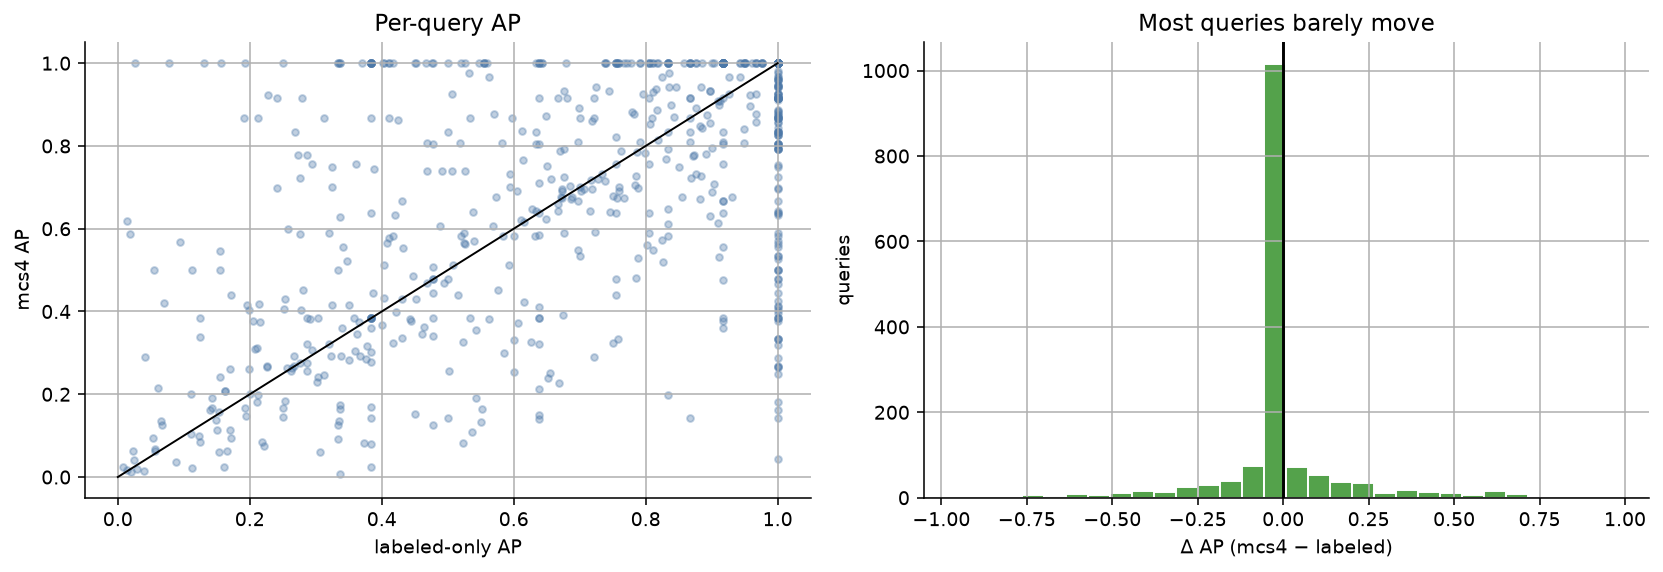
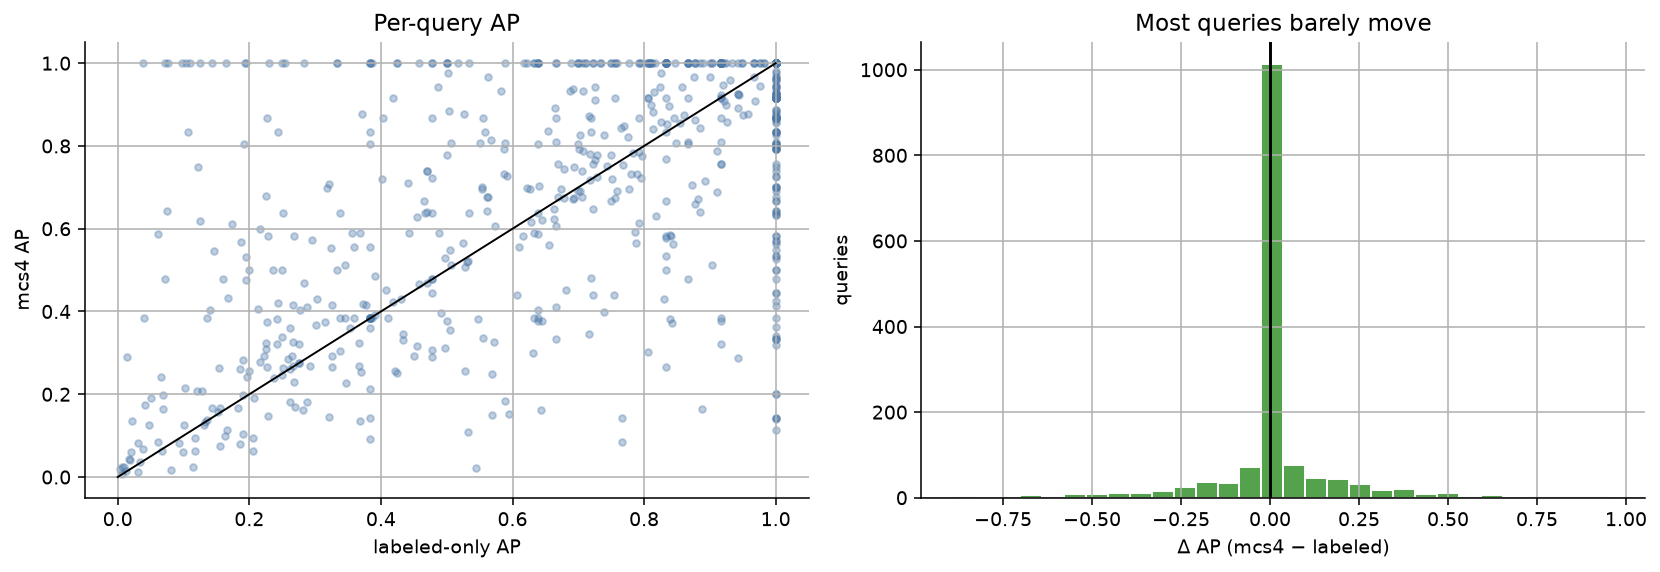
Serve CatBoost refusal in Docker and restore the K=2 vs mcs4 OOF table.
The contest image now uses eva02_model (P ≥ 0.5473); cosine 0.7528 stays a preset, and the HDBSCAN compare is again the pair that was actually trained.

diff --git a/tests/test_infra_complete.py b/tests/test_infra_complete.py
@@ -33,13 +33,13 @@ def test_docker_offline_image_pins_and_bakes_weights():
     assert "scripts/verify_weights.py --root /app/weights/finetuned" in dockerfile
     assert "checkpoint=/app/weights/finetuned/eva02.pt" in dockerfile
     assert "eval.top_k=10" in dockerfile
-    assert "refusal=eva02_threshold" in dockerfile
+    assert "refusal=eva02_model" in dockerfile
     assert "consul-tech" not in dockerfile
     assert "network_mode: none" in compose
     assert "gpus: all" in compose
     assert "./weights:/app/weights" not in compose
     assert "CHECKPOINT:-/app/weights/finetuned/eva02.pt" in compose
-    assert "refusal=eva02_threshold" in compose
+    assert "refusal=eva02_model" in compose
     assert "!weights/finetuned/" in dockerignore
     assert "extra_data" in dockerignore
     assert "filter=lfs" in gitattributes

diff --git a/README.md b/README.md
@@ -23,7 +23,7 @@ to the dataset and label mapping that produced them.
 - Iterative test pseudo-labeling: embed query+gallery, HDBSCAN identities, fine-tune on labeled train plus clusters.
 - Reproducible GroupKFold splits with no vehicle identity overlap between train and validation.
 - CPU/offline test suite with 100% line coverage for first-party Python code.
-- Contest serving file is a compact EMA `.pt` exported from a Lightning checkpoint.
+- Contest serving files are the EMA `.pt` and the CatBoost `.cbm` used for open-set refusal.
 - Serving inference uses fused SDPA, `torch.compile`, and the same DataLoader decode path as Docker. Isolated H200 `extract()` latency is 15.5 ms; DataLoader throughput peaks at 722 FPS.
 
 ## Requirements
@@ -346,44 +346,45 @@ random vehicle. Full case study: `notebooks/eva02/oof_analysis.ipynb`.*
 ### Labeled-only vs HDBSCAN mcs4 (experiment, not serving)
 
 HDBSCAN on the public test set was tried as extra train identities. It is **not** in the submitted
-recipe (`weights/finetuned/eva02.pt` stays labeled-only K=4). The two identity-disjoint OOF
-runs share query/gallery rows and fold assignment; only the embedding changes.
-`notebooks/eva02/oof_compare.ipynb` compares per-query ranking, neighbor lists, and the 256-D spaces.
+recipe (`weights/finetuned/eva02.pt` stays labeled-only K=4). The table is the pair that was
+trained: labeled-only K=2 `runs/cv/eva02_trial23` against mcs4 on that same recipe. mcs4 was not
+repeated on K=4. The two identity-disjoint OOF runs share query/gallery rows and fold assignment;
+only the embedding changes. `notebooks/eva02/oof_compare.ipynb` compares per-query ranking,
+neighbor lists, and the 256-D spaces.
 
-| | labeled-only `eva02_k4` | + HDBSCAN mcs4 (K=2 recipe) |
+| | labeled-only `eva02_trial23` | + HDBSCAN mcs4 |
 | --- | ---: | ---: |
-| mAP | 0.855 | 0.857 |
-| mAP@10 | 0.844 | 0.846 |
-| Rank-1 | 0.849 | 0.853 |
-| mean first-positive rank | 2.22 | 2.16 |
-| Rank-1 rescue / break | — | 81 / 74 |
+| mAP | 0.847 | 0.857 |
+| mAP@10 | 0.834 | 0.846 |
+| Rank-1 | 0.842 | 0.853 |
+| mean first-positive rank | 2.70 | 2.16 |
+| Rank-1 rescue / break | — | 83 / 66 |
 | same Rank-1 image | — | 54% |
 | top-5 / top-10 overlap | — | 0.74 / 0.67 |
-| fold-0 intra-id cosine | 0.85 | 0.82 |
-| fold-0 cross-camera positive | 0.79 | 0.76 |
-| same-image cosine (raw → Procrustes) | — | 0.60 → 0.84 |
-| linear CKA | — | 0.77 |
+| fold-0 intra-id cosine | 0.76 | 0.82 |
+| fold-0 cross-camera positive | 0.68 | 0.76 |
+| same-image cosine (raw → Procrustes) | — | ≈0 → 0.83 |
+| linear CKA | — | 0.76 |
 
-mcs4 was trained on the previous K=2 recipe. Against K=4 the OOF gap shrinks to +0.002 mAP: 295
-queries gain AP, 308 lose, 938 stay put. Neighbor lists still move — 54% keep the same Rank-1
-image. The spaces are closer than the old K=2 comparison (raw same-image cosine 0.60, Procrustes
-0.84, CKA 0.77). K=4 positives are tighter than mcs4; sampled negatives stay near 0. Serving does
-not use the pseudo run.
+mcs4 is a net gain, not a uniform lift: 336 queries gain AP, 278 lose, 927 stay put. Neighbor lists
+move more than the metric — only 54% keep the same Rank-1 image. The two bases are rotated (raw
+same-image cosine ≈ 0) but agree after an orthogonal Procrustes map. Same-identity views get
+tighter; sampled negatives stay near 0.
 
 ![Per-query AP labeled-only vs mcs4](notebooks/eva02/readme_figs/compare_ap.jpg)
 
-*Each point is one of 1541 orig-identity OOF queries. The spike at ΔAP = 0 is 938 unchanged
+*Each point is one of 1541 orig-identity OOF queries. The spike at ΔAP = 0 is 927 unchanged
 queries. Off-diagonal tails are Rank-1 rescues and breaks.*
 
 ![Fold-0 neighbor crops: labeled-only vs mcs4](notebooks/eva02/readme_figs/compare_neighbors.jpg)
 
-*Rows 1–2: mcs4 rescues (id 1067, 1190) where labeled-only Rank-1 was a lookalike. Rows 3–4: breaks
-(id 782, 23) where labeled-only was already correct. Green is the true identity; red is not.*
+*Rows 1–2: mcs4 rescues (id 485, 590) where labeled-only Rank-1 was a lookalike. Rows 3–4: breaks
+(id 1321, 513) where labeled-only was already correct. Green is the true identity; red is not.*
 
 ![Embedding alignment and pair cosines](notebooks/eva02/readme_figs/compare_embed.jpg)
 
 *Left: cosine of the two models on the same OOF image, raw vs after Procrustes. Right: fold-0
-query–gallery cosines. K=4 positives sit higher than mcs4; negatives stay near zero.*
+query–gallery cosines. Positives shift up; negatives stay near zero.*
 
 ### Full retrain
 
@@ -473,11 +474,11 @@ PYTHONUNBUFFERED=1 scripts/pseudo_label.sh cuda:2
 
 Writes `runs/pseudo/iter001/` (`embeddings.npy`, `clusters.csv` including `-1`, merged `train.csv`, `summary.json`). Defaults: `weights/finetuned/eva02.pt`, `min_cluster_size=4`, `min_samples=4`, `allow_single_cluster=false`. `allow_single_cluster=true` can collapse the test set into one identity. Reuse embeddings with `--embeddings runs/pseudo/iter001/embeddings.npy`. Next round: `ITER=2 OUTPUT=runs/pseudo/iter002_mcs4 CHECKPOINT=weights/finetuned/eva02.pt`. `summary.json` records the clustering checkpoint and `next_train` Hydra data overrides (`train_csv`, `folds_file`, `val_source_csv`). It does **not** set `init_checkpoint`: that clustering `.pt` already saw original identities (a serving full-retrain, or even one fold, has seen IDs that later folds hold out). Identity-disjoint CV must init from the Hub snapshot, not from `summary.json` `checkpoint`.
 
-Measured HDBSCAN mcs=4 rounds (embed with the then-current serving `.pt`, merge onto original `data/train.csv`):
+Measured HDBSCAN mcs=4 rounds on the K=2 trial23 recipe (embed with that serving `.pt`, merge onto original `data/train.csv`). The labeled-only row is that same K=2 OOF, not the later K=4 serving run:
 
 | | clusters | labeled test | noise | merged train | orig-ID OOF mAP / mAP@10 / Rank-1 |
 | --- | ---: | ---: | ---: | --- | ---: |
-| labeled-only `eva02_k4` | — | — | — | 9556 / 1541 IDs | **0.855 / 0.844 / 0.849** |
+| labeled-only `eva02_trial23` | — | — | — | 9556 / 1541 IDs | **0.847 / 0.834 / 0.842** |
 | iter1 `runs/pseudo/iter001_mcs4` | 234 | 1626 | 13% (234) | 11182 / 1775 IDs | 0.857 / 0.846 / 0.853 |
 | iter2 `runs/pseudo/iter002_mcs4` | 239 | 1738 | 6.6% (122) | 11294 / 1780 IDs | 0.856 / 0.845 / 0.850 |
 
@@ -485,7 +486,7 @@ Iter2 tightened the clusters (noise 13% → 6.6%) but did not beat iter1 OOF (mA
 Neither round is used at serve. Neighbor/embedding compare vs labeled-only:
 `notebooks/eva02/oof_compare.ipynb`.
 
-5-fold CV on orig identities, every test pseudo-label in train, GPUs 3–7. Init from the LLM2CLIP snapshot, not from a serving full-retrain `.pt`:
+5-fold CV on orig identities, every test pseudo-label in train, GPUs 3–7. The finished folds used PK K=2, so the command pins `data.sampler.instances=2` (`current_best_tuned` is now K=4). Init from the LLM2CLIP snapshot, not from a serving full-retrain `.pt`:
 
 ```bash
 PYTHONUNBUFFERED=1 \
@@ -493,6 +494,7 @@ EXPERIMENT=current_best_tuned \
 RUN_ROOT=runs/cv/pseudo_iter001_mcs4 \
 MODEL_CHECKPOINT=weights/llm2clip/LLM2CLIP-EVA02-L-14-336.pt \
 scripts/train_folds.sh 3,4,5,6,7 \
+  data.sampler.instances=2 \
   data.train_csv=runs/pseudo/iter001_mcs4/train.csv \
   data.folds_file=runs/pseudo/iter001_mcs4/folds.csv \
   data.val_source_csv=data/train.csv
@@ -612,20 +614,22 @@ average before L2. Scale/rotation/flip TTA still runs inside each crop via `embe
 
 Open-set refusal is applied only to contest `candidates.csv`. Serving heads and frozen thresholds
 live in `configs/refusal/`. Default local `refusal=none` writes every query. The contest Docker
-image defaults to `refusal=eva02_threshold` (max query–gallery cosine ≥ 0.7528). EVA02 serving
+image defaults to `refusal=eva02_model` (CatBoost `P(match exists)` ≥ 0.5473). The image installs
+CatBoost and copies `weights/finetuned/eva02_catboost.cbm`. EVA02 serving
 presets drop refused queries: **no rows**
 for that `query_id` (not an empty `gallery_id`, not a sentinel). `submission.csv` is ranking-only:
 exactly `eval.top_k` (10) gallery IDs for **every** query, including open-set and refused ones, with
 no score column and no skipped `query_id`.
 
 ```bash
-.venv/bin/python eval.py checkpoint=weights/finetuned/eva02.pt eval.split=test refusal=eva02_threshold
 .venv/bin/python eval.py checkpoint=weights/finetuned/eva02.pt eval.split=test refusal=eva02_model
+.venv/bin/python eval.py checkpoint=weights/finetuned/eva02.pt eval.split=test refusal=eva02_threshold
 .venv/bin/python eval.py checkpoint=weights/finetuned/eva02.pt eval.split=test refusal=eva02_ensemble
 ```
 
-`eva02_model` and `eva02_ensemble` need a `.cbm` at `refusal.model_path` (default
-`weights/finetuned/eva02_catboost.cbm`). They are optional overrides; Docker does not load CatBoost.
+`eva02_model` is the submit head. `eva02_threshold` is the cosine preset (max cosine ≥ 0.7528).
+`eva02_ensemble` accepts only when both heads agree. Model presets read `refusal.model_path`
+(default `weights/finetuned/eva02_catboost.cbm`).
 Export the head from EVA02 OOF embeddings with `scripts/export_refusal.py`. Thresholds in the YAMLs
 are frozen nested 5-fold inner-CV maxima of `0.7 × F1 + 0.3 × TNR` on 20% identity-hold-out eval
 packs, not retuned on the test set. TabM remains a `refusal/` calibration head and is not a submit
@@ -1029,21 +1033,21 @@ decisions; 310 open / 1231 closed queries):
 
 | Head | contest | F1 | TNR | PR-AUC |
 | --- | ---: | ---: | ---: | ---: |
-| Cosine (Docker) | 0.801 | 0.836 | 0.719 | 0.956 |
-| CatBoost | 0.814 | 0.829 | 0.781 | 0.965 |
+| Cosine | 0.801 | 0.836 | 0.719 | 0.956 |
+| CatBoost (Docker) | 0.814 | 0.829 | 0.781 | 0.965 |
 | cosine AND CatBoost | 0.811 | 0.821 | 0.787 | 0.964 |
 
-CatBoost wins this OOF. Identity-bootstrap 95% CIs: cosine contest **0.801 [0.779, 0.822]**,
+CatBoost wins this OOF and is the contest accept rule (`refusal=eva02_model`, P ≥ 0.5473).
+Identity-bootstrap 95% CIs: cosine contest **0.801 [0.779, 0.822]**,
 CatBoost **0.814 [0.793, 0.834]**, AND **0.811 [0.790, 0.831]**. The paired cosine−CatBoost delta is
-**−0.013 [−0.026, −0.001] and excludes 0**. Docker serving stays `eva02_threshold` (max cosine ≥
-0.7528) because the contest image does not load CatBoost. `eva02_model` and `eva02_ensemble` are
-optional local presets. Rank-average / TabM remain OOF calibration only.
+**−0.013 [−0.026, −0.001] and excludes 0**. `eva02_threshold` remains the cosine preset (max cosine ≥
+0.7528). `eva02_ensemble` is optional. Rank-average / TabM remain OOF calibration only.
 
 Eight fixed 20% identity-hold-out seeds `{0..7}` on every fold: re-fit cosine cuts average 0.759
-(std 0.033). The frozen serving cut 0.7528 scores contest 0.814 mean (std 0.022). After holding out
+(std 0.033). The frozen cosine cut 0.7528 scores contest 0.814 mean (std 0.022). After holding out
 open identities, subsample the remaining gallery to 750 (test size, keep at least one positive):
 frozen-cut contest 0.808 vs 0.801 on the full val gallery. Lookalike queries are the weak slice
-(contest 0.784, TNR 0.684 at the serving cut). Nested inner-CV does not undo HPO leakage on the
+(contest 0.784, TNR 0.684 at the cosine cut). Nested inner-CV does not undo HPO leakage on the
 embeddings. OOF F1/TNR calibrate the rule on fold extractors; transferring that threshold onto the
 full-retrain serving checkpoint is a practical choice, not a measurement of that checkpoint on new
 identities.
@@ -1055,20 +1059,20 @@ cosine. Notebook: `notebooks/eva02/refusal_analysis.ipynb`.*
 
 ![Open-set hold-out seeds](notebooks/eva02/readme_figs/refusal_holdout_seeds.jpg)
 
-*Left: re-fit cosine threshold on eight fixed hold-out seeds. Dashed line is the serving cut
-0.7528. Right: contest score of that frozen cut. Notebook:
+*Left: re-fit cosine threshold on eight fixed hold-out seeds. Dashed line is the cosine cut
+0.7528. Right: contest score of that frozen cosine cut. Notebook:
 `notebooks/eva02/refusal_analysis.ipynb`.*
 
 ![Refusal difficulty slices](notebooks/eva02/readme_figs/refusal_slices.jpg)
 
-*Frozen serving cosine cut on nested eval packs. Lookalikes (impostor cosine ≥ 0.55) lose TNR.
+*Frozen cosine cut on nested eval packs. Lookalikes (impostor cosine ≥ 0.55) lose TNR.
 Notebook: `notebooks/eva02/refusal_analysis.ipynb`.*
 
 ![Outer-OOF refusal head comparison](notebooks/eva02/readme_figs/refusal_bars.jpg)
 
 *Nested 5-fold inner CV on labeled-only K=4 OOF, 20% identity-hold-out eval packs. Contest
-score is `0.7 × F1 + 0.3 × TNR`. “Always accept” has no TNR. Docker serving is cosine 0.7528.
-CatBoost 0.5473 is the higher OOF head and stays optional. The AND row is not the Docker rule.*
+score is `0.7 × F1 + 0.3 × TNR`. “Always accept” has no TNR. Docker serving is CatBoost 0.5473.
+Cosine 0.7528 stays the other preset. The AND row is not the Docker rule.*
 
 ![Outer-OOF precision-recall for match vs no-match](notebooks/eva02/readme_figs/refusal_pr.jpg)
 
@@ -1081,27 +1085,28 @@ AdaSP with `K=4` has six positive pairs per identity and about 60 in-batch negat
 *relative* gap, not an absolute cosine. On the 20% identity-hold-out OOF packs that gap is large:
 median true-match max cosine 0.865 vs median open max 0.650 (mean gap 0.180 ≈ 6.9`τ`). Gallery
 max-impostor is an extreme value over ~870 crops, so it cannot be equated to the in-batch hard
-negative. The contest operating point sits near the midpoint of those two max-cosine distributions
+negative. The cosine operating point sits near the midpoint of those two max-cosine distributions
 (median midpoint 0.761, mean midpoint 0.758, nested cut 0.753). ArcFace’s class-center margin
 `cos(θ+m)` is a classification logit, not a pairwise retrieval threshold: mean cross-camera intra
 cosine is 0.796 (`√E[intra] ≈ 0.89`), which is above the cut. The cut is not `m` rewritten as a cosine.
 
 ![Max cosine for closed vs open queries](notebooks/eva02/readme_figs/refusal_cosine_geometry.jpg)
 
-*20% identity-hold-out OOF. True-match max-cosine median 0.865, open 0.650; serving cut 0.753 is
+*20% identity-hold-out OOF. True-match max-cosine median 0.865, open 0.650; cosine cut 0.753 is
 near the midpoint. Notebook: `notebooks/eva02/refusal_analysis.ipynb`.*
 
 `refusal/` implements three accept/refuse heads on top of frozen retrieval embeddings, plus
 ensembles of those heads. None of them uses `camera_id` or `vehicle_id` as a feature; those labels
 exist only while building the training pairs.
 
-1. **Cosine threshold (serving).** Score is the maximum query-gallery cosine. The operating point
-   maximizes `0.7 × F1 + 0.3 × TNR` on inner-CV eval packs, never on the reported fold. Docker uses
-   this head.
-2. **CatBoost.** A binary classifier on the retrieved set. Training examples are balanced 50/50 by
+1. **Cosine threshold.** Score is the maximum query-gallery cosine. The operating point
+   maximizes `0.7 × F1 + 0.3 × TNR` on inner-CV eval packs, never on the reported fold. This is
+   `eva02_threshold`, not the Docker head.
+2. **CatBoost (serving).** A binary classifier on the retrieved set. Training examples are balanced 50/50 by
    scoring the same query against the full gallery (`y=1`) and against the gallery with that
    identity removed (`y=0`). The contest operating point is **not** chosen on those pairs: it is
-   frozen on 20% identity-hold-out eval packs (`open_set_pack`). Features are similarity statistics,
+   frozen on 20% identity-hold-out eval packs (`open_set_pack`). Docker uses this head
+   (`eva02_model`, P ≥ 0.5473). Features are similarity statistics,
    pairwise/graph descriptors of the top-k neighbors, and the concatenated query and top-1 gallery
    embeddings.
 3. **TabM.** A parameter-efficient MLP ensemble after Gorishniy et al., ICLR 2025: shared linear
@@ -1113,7 +1118,7 @@ exist only while building the training pairs.
 
 `eval.py` selects a frozen submit head with `refusal=` (`none`, `eva02_threshold`, `eva02_model`,
 `eva02_ensemble`). Serving thresholds and the CatBoost path live in `configs/refusal/`. Default
-local `none` writes every query; the Docker image uses `eva02_threshold`. The mask is applied to
+local `none` writes every query; the Docker image uses `eva02_model`. The mask is applied to
 `candidates.csv` only. Each head scores one query against the gallery; serving does not
 rank-average across the test query batch.
 
@@ -1182,9 +1187,9 @@ weights/finetuned/
 └── eva02_catboost.cbm
 ```
 
-`eva02.pt` is the eval/Docker checkpoint. `eva02_catboost.cbm` is only required for
-`refusal=eva02_model` and `refusal=eva02_ensemble`. Nested inner-CV accept
-thresholds (`0.7528` cosine, `0.5473` CatBoost) live in `configs/refusal/`; Docker uses the cosine
+`eva02.pt` is the embedding checkpoint. `eva02_catboost.cbm` is the contest refusal head
+(`refusal=eva02_model`). Nested inner-CV accept
+thresholds (`0.7528` cosine, `0.5473` CatBoost) live in `configs/refusal/`; Docker uses the CatBoost
 cut. `--full-retrain` does not retune them.
 
 Those binaries are Git LFS objects (see `.gitattributes`). After adding or replacing them without
@@ -1206,7 +1211,7 @@ installed from `requirements/runtime.txt` with `pip install --require-hashes` on
 file is the frozen export of `uv.lock`; regenerate it with `make lock`. The lab `uv.lock` registry
 URL is not used at image build time.
 
-The serving `.pt` is copied into the image from `weights/finetuned/`. Do not mount a host
+The serving `.pt` and `eva02_catboost.cbm` are copied into the image from `weights/finetuned/`. Do not mount a host
 `weights/` directory over `/app/weights`, or the baked files are hidden. Mount only contest data and
 the output directory:
 
@@ -1233,7 +1238,7 @@ data.root=/data
 eval.split=test
 eval.output_dir=/runs/submission
 eval.top_k=10
-refusal=eva02_threshold
+refusal=eva02_model
 ```
 
 Override `CHECKPOINT` or pass extra Hydra flags after `retrieval`. Eval loads
